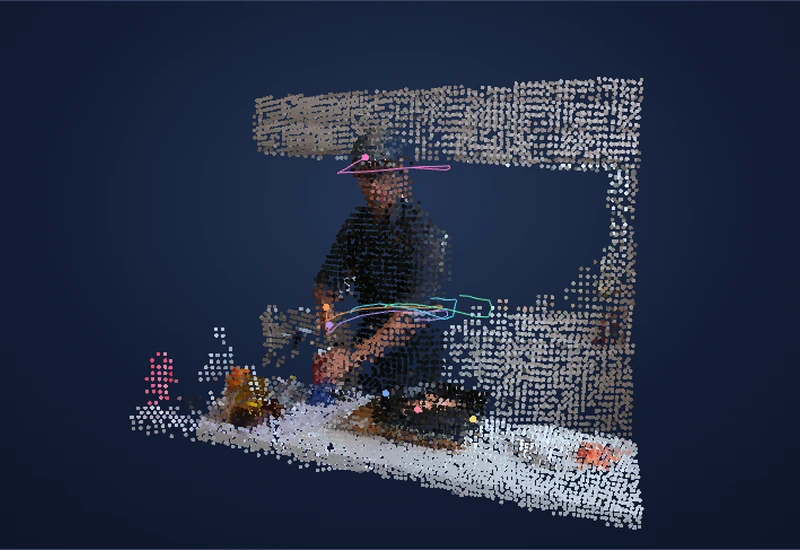
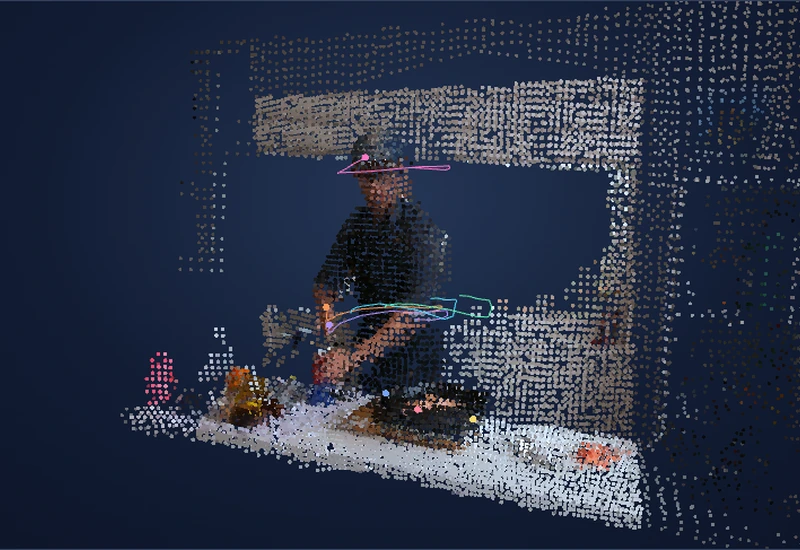
Add toggleable temporally fused scenery to the 3D viewer

diff --git a/app.js b/app.js
@@ -1,4 +1,4 @@
-import { PointCloudViewer } from './viewer.js?v=rgb-n3dv';
+import { PointCloudViewer } from './viewer.js?v=static-bg';
 import { BENCHMARKS } from './metrics.js';
 import { GALLERY } from './gallery-data.js';
 
@@ -17,10 +17,10 @@ const couchScene = {
 };
 
 const studioScenes = [
-  { id: 'n3dv-flame-salmon', title: 'Flambéing salmon', frame: 19, dataset: 'N3DV', credit: 'https://github.com/facebookresearch/Neural_3D_Video', revision: '?v=hands-pan' },
+  { id: 'n3dv-flame-salmon', title: 'Flambéing salmon', frame: 19, dataset: 'N3DV', credit: 'https://github.com/facebookresearch/Neural_3D_Video', revision: '?v=static-bg' },
   { id: 'fox-robot', title: 'Running fox & jumping robot', frame: 15, dataset: 'Synthetic', reference: 'Rendered reference', credit: 'https://github.com/KhronosGroup/glTF-Sample-Assets/tree/main/Models/Fox' },
   { id: 'train-tram', title: 'Steam train passing a tram', frame: 12, dataset: 'Synthetic', reference: 'Rendered reference', credit: 'https://kenney.nl/assets/train-kit' },
-  { id: 'zurich-night', title: 'Oncoming traffic at night', frame: 8, dataset: 'DSEC', reference: 'LiDAR-derived depth', frames: 12, interval: 200, credit: 'https://dsec.ifi.uzh.ch/', revision: '?v=road-crop' },
+  { id: 'zurich-night', title: 'Oncoming traffic at night', frame: 8, dataset: 'DSEC', reference: 'LiDAR-derived depth', frames: 12, interval: 200, credit: 'https://dsec.ifi.uzh.ch/', revision: '?v=static-bg' },
   { id: 'humman-knee', title: 'Squat and knee lift', frame: 13, dataset: 'HuMMan-Recon', reference: 'Kinect depth', credit: 'https://huggingface.co/datasets/caizhongang/HuMMan/tree/main/humman_release_v1.0_recon' },
   couchScene,
 ];
@@ -298,6 +298,8 @@ function initViewer() {
   const seek = $('#scene-time');
   const play = $('#play-scene');
   const tracks = $('#show-trails');
+  const background = $('#show-background');
+  const backgroundControl = background.closest('label');
   const cache = new Map();
   let renderer;
   let id;
@@ -354,13 +356,30 @@ function initViewer() {
     return cache.get(asset);
   }
 
+  async function attachBackground(entry, asset, revision, requested, spec, current) {
+    if (!spec?.count) return;
+    const key = requested === 'reference' ? 'reference-background' : 'background';
+    entry[key] ??= fetchData(scenes + asset + '-' + key + '.bin' + revision, 'arrayBuffer');
+    try {
+      const bytes = await entry[key];
+      if (bytes.byteLength !== spec.count * 16) throw new Error('The static point cloud is incomplete');
+      if (current !== generation) return;
+      renderer.loadBackground(bytes, spec.count);
+      renderer.showBackground(background.checked);
+      backgroundControl.hidden = false;
+    } catch {
+      delete entry[key];
+    }
+  }
+
   async function selectCloud(requested, reset = false) {
     const current = ++generation;
     requestedSource = requested;
     const asset = id;
+    const revision = activeScene.revision ?? '';
     const entry = record(activeScene);
     if (requested === 'reference' && !entry.reference) {
-      entry.reference = fetchData(scenes + asset + '-reference.bin' + (activeScene.revision ?? ''), 'arrayBuffer');
+      entry.reference = fetchData(scenes + asset + '-reference.bin' + revision, 'arrayBuffer');
     }
     message(requested === 'reference' ? 'Loading ' + activeScene.reference.toLowerCase() + '…' : 'Loading the 3D scene…');
     try {
@@ -371,6 +390,7 @@ function initViewer() {
       if (!frames?.length || !Array.isArray(paths) || frames.some(({ count, offset }) => count <= 0 || offset < 0 || offset + count * 16 > binary.byteLength)) {
         throw new Error('The point cloud data is incomplete');
       }
+      backgroundControl.hidden = true;
       renderer.load(meta, binary, frames, paths, reset);
       tracks.disabled = paths.length === 0;
       renderer.showTrajectories(tracks.checked && !tracks.disabled);
@@ -388,6 +408,7 @@ function initViewer() {
       setFrame(Math.min(frame, frames.length - 1));
       setPressed(overlays, 'cloud', source);
       message('');
+      attachBackground(entry, asset, revision, requested, meta.background?.[requested], current);
     } catch {
       if (requested === 'reference') delete entry.reference;
       else cache.delete(asset);
@@ -433,6 +454,7 @@ function initViewer() {
     setFrame(Number(seek.value) - 1);
   });
   tracks.addEventListener('change', () => renderer.showTrajectories(tracks.checked));
+  background.addEventListener('change', () => renderer.showBackground(background.checked));
   play.addEventListener('click', () => {
     if (!loaded || timer) {
       stopPlayback();

diff --git a/viewer.js b/viewer.js
@@ -13,10 +13,11 @@ const FRAGMENT_SOURCE = 'precision mediump float;' +
   'varying vec3 vColor;' +
   'uniform bool uSplat;' +
   'uniform bool uCloud;' +
+  'uniform float uGain;' +
   'void main() {' +
   '  if (uSplat && length(gl_PointCoord - vec2(0.5)) > 0.48) discard;' +
   '  vec3 color = uCloud ? pow(vColor, vec3(0.78)) : vColor;' +
-  '  gl_FragColor = vec4(color, 1.0);' +
+  '  gl_FragColor = vec4(color * uGain, 1.0);' +
   '}';
 
 const PALETTE = [
@@ -97,13 +98,17 @@ export class PointCloudViewer {
     this.size = gl.getUniformLocation(program, 'uSize');
     this.splat = gl.getUniformLocation(program, 'uSplat');
     this.shade = gl.getUniformLocation(program, 'uCloud');
+    this.gain = gl.getUniformLocation(program, 'uGain');
     gl.enableVertexAttribArray(this.position);
     gl.enableVertexAttribArray(this.color);
     gl.clearColor(0, 0, 0, 0);
     this.cloudBuffer = gl.createBuffer();
+    this.backgroundBuffer = gl.createBuffer();
     this.gridBuffer = gl.createBuffer();
     this.trailBuffer = gl.createBuffer();
     this.frame = 0;
+    this.backgroundCount = 0;
+    this.drawBackground = true;
     this.drawTrajectories = true;
     this.drawRequest = 0;
     this.attachCameraControls();
@@ -116,6 +121,7 @@ export class PointCloudViewer {
     this.frames = frames;
     this.bytes = bytes;
     this.tracks = tracks;
+    this.backgroundCount = 0;
     if (reset) {
       this.reset();
       this.prepareFloor();
@@ -155,6 +161,19 @@ export class PointCloudViewer {
 
   showTrajectories(show) {
     this.drawTrajectories = show;
+    this.draw();
+  }
+
+  loadBackground(bytes, count) {
+    const { gl } = this;
+    gl.bindBuffer(gl.ARRAY_BUFFER, this.backgroundBuffer);
+    gl.bufferData(gl.ARRAY_BUFFER, new Uint8Array(bytes), gl.STATIC_DRAW);
+    this.backgroundCount = count;
+    this.draw();
+  }
+
+  showBackground(show) {
+    this.drawBackground = show;
     this.draw();
   }
 
@@ -265,6 +284,7 @@ export class PointCloudViewer {
     gl.disable(gl.DEPTH_TEST);
     gl.uniform1i(this.splat, 0);
     gl.uniform1i(this.shade, 0);
+    gl.uniform1f(this.gain, 1);
     if (this.gridCount) {
       this.bind(this.gridBuffer);
       gl.drawArrays(gl.LINES, 0, this.gridCount);
@@ -274,6 +294,13 @@ export class PointCloudViewer {
     gl.uniform1i(this.splat, 1);
     gl.uniform1i(this.shade, meta.preservePointColors ? 0 : 1);
     const pointSize = (cssHeight / 103) / this.zoomFactor * (meta.pointSize ?? 1);
+    if (this.drawBackground && this.backgroundCount) {
+      gl.uniform1f(this.gain, .66);
+      gl.uniform1f(this.size, clamp(pointSize * .84, 1.3, 6) * dpr);
+      this.bind(this.backgroundBuffer, true);
+      gl.drawArrays(gl.POINTS, 0, this.backgroundCount);
+      gl.uniform1f(this.gain, 1);
+    }
     gl.uniform1f(this.size, clamp(pointSize, 1.3, 7.5) * dpr);
     this.bind(this.cloudBuffer, true);
     gl.drawArrays(gl.POINTS, 0, this.frames[this.frame].count);

diff --git a/index.html b/index.html
@@ -14,8 +14,8 @@
   <link rel="canonical" href="https://bestzbf.github.io/mvmc-project/">
   <link rel="icon" href="./assets/media/icon.png" type="image/png">
   <link rel="preload" href="./assets/fonts/instrument-sans.woff2" as="font" type="font/woff2" crossorigin>
-  <link rel="stylesheet" href="./styles.css?v=4d-scenes">
-  <script type="module" src="./app.js?v=tracks-road"></script>
+  <link rel="stylesheet" href="./styles.css?v=static-bg">
+  <script type="module" src="./app.js?v=static-bg"></script>
 </head>
 <body>
   <a class="skip-link" href="#main">Skip to content</a>
@@ -57,7 +57,7 @@
       <div class="wrap">
         <div class="section-intro">
           <h2 id="viewer-title">Explore in 3D</h2>
-          <p>Orbit the reconstructions, scrub through time, and follow the predicted 3D tracks. Selected scenes also show rendered or measured depth.</p>
+          <p>Orbit the reconstructions, scrub through time, and follow the predicted 3D tracks. Selected scenes also show depth references or a static background.</p>
         </div>
         <div class="studio-layout">
           <div class="viewer" aria-label="Interactive 4D viewer">
@@ -69,7 +69,7 @@
           </div>
         </div>
         <div class="viewer-stage" id="viewer-stage">
-          <img class="viewer-poster" id="viewer-poster" src="./assets/scenes/n3dv-flame-salmon-preview.webp?v=hands-pan" alt="A point cloud of a cook and pan with 3D motion trails" width="800" height="550">
+          <img class="viewer-poster" id="viewer-poster" src="./assets/scenes/n3dv-flame-salmon-preview.webp?v=static-bg" alt="A point cloud of a cook and pan with 3D motion trails" width="800" height="550">
           <canvas id="scene-canvas" tabindex="0" aria-label="3D scene. Use arrow keys to orbit and plus or minus to zoom." hidden></canvas>
           <p id="viewer-status" class="viewer-status" role="status">Loading the 3D scene…</p>
           <div class="viewer-overlays" id="viewer-overlays" hidden>
@@ -93,7 +93,10 @@
           </div>
           <div class="viewer-footer">
             <span>Drag to orbit · Scroll to zoom</span>
-            <label class="track-switch"><input id="show-trails" type="checkbox" checked>Trajectories</label>
+            <div class="viewer-options">
+              <label class="track-switch" hidden><input id="show-background" type="checkbox" checked>Static background</label>
+              <label class="track-switch"><input id="show-trails" type="checkbox" checked>Trajectories</label>
+            </div>
           </div>
         </div>
         <noscript><p class="no-js">The 3D controls use JavaScript.</p></noscript>

diff --git a/styles.css b/styles.css
@@ -319,6 +319,7 @@ select {
   font-size: .88rem;
   color: #bdcbe5;
 }
+.viewer-options { display: flex; align-items: center; flex-wrap: wrap; gap: .42rem 1rem; }
 .track-switch { display: inline-flex; align-items: center; gap: .4rem; color: var(--studio-ink); }
 .track-switch input { width: 16px; height: 16px; accent-color: #a7bcff; margin: 0; }
 .no-js { padding: 10px 16px; }

diff --git a/README.md b/README.md
@@ -15,6 +15,7 @@ Start the local server from the repository root.
 ## Demo data
 
 - **3D viewer.** The fox and robot and train and tram scenes have independently rendered geometry and tracks. The DSEC and HuMMan-Recon scenes have measured depth views. The SceneHub4D couch and N3DV cooking scenes show predicted geometry and trajectories with point colors sampled from their RGB views. [Scene metadata](assets/scenes/) gives the display protocol, credit URLs, and frame indices. The binary point streams use little-endian float32 XYZ and three uint8 RGB values with one padding byte per point.
+- **Static background.** The N3DV and night driving demos can overlay stationary surfaces fused from several frames. The MVMC and LiDAR-derived driving views each use a background fused from their own depth source.
 - **Motion gallery.** Seven clips show real captures and 23 show controlled synthetic scenes. The SceneHub4D clip is rendered from the interactive 3D data. Separate thumbnails and a highlight reel use cropped previews. [Media credits](assets/licenses/scene-credits.html)
 - **Qualitative comparisons.** The interactive panels are crops of the included full figures. Some show trajectories across the full sequence and others overlay tracked points on one frame.
 - **Benchmark results.** The site reproduces Table 1 for MV-Kubric and Panoptic at the reported precision. An em dash marks an unavailable score. [Metric data](metrics.js)
